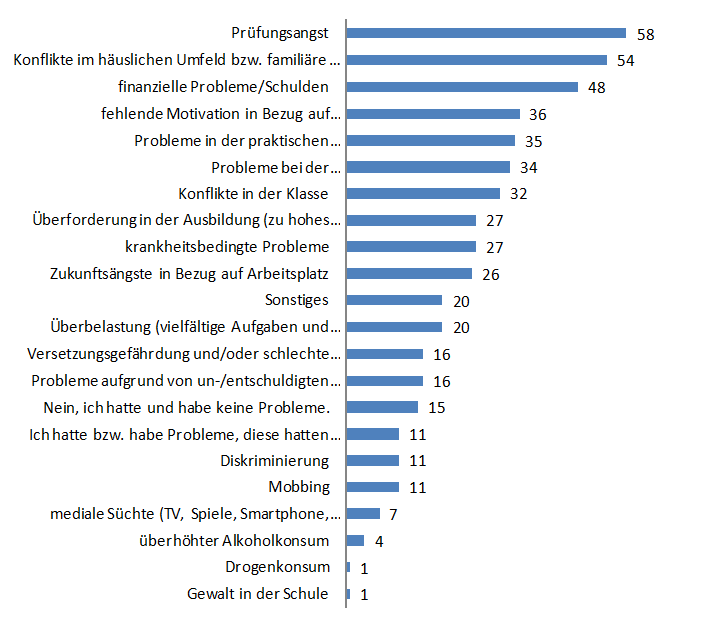
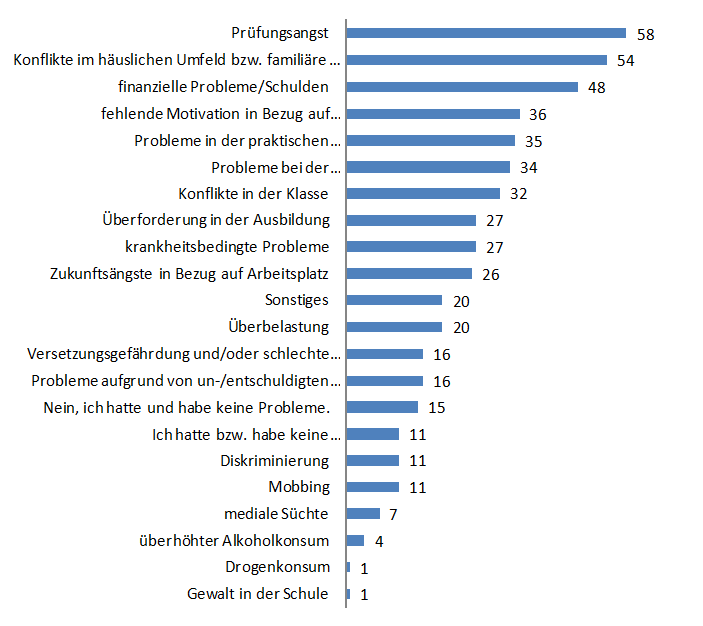
Bilder geändert. Fußlinie und Seitenzahlen nach Titelseite eingeblendet. Quellenangabe angepasst.

diff --git a/bilder.tex b/bilder.tex
@@ -1,6 +1,6 @@
 
 \begin{center}
-	\textbf{Schüler haben's schwer \punkte\footcite{prepolino2010}}\\
+	\textbf{Schüler haben's schwer \punkte}\\
 \end{center}
 
 
@@ -9,12 +9,13 @@
 		\includegraphics[width=0.4\textwidth]{images/Lasten-eines-Schuelers.jpg}\\
 	\caption{Lasten eines Schülers}
 	\label{fig:Lasten-eines-Schuelers}
+	\footnotesize(Quelle: Prepolino 2010)
 \end{figure}
 
-\vspace*{\fill}
+\vspace*{20mm}
 
 \begin{center}
-	\textbf{\punkte\ Lehrer aber auch\footcite{prepolino2010}}\\
+	\textbf{\punkte\ Lehrer aber auch}\\
 \end{center}
 
 
@@ -23,6 +24,7 @@
 		\includegraphics[width=0.4\textwidth]{images/Lasten-eines-Lehrers.jpg}\\
 	\caption{Lasten eines Lehrers}
 	\label{fig:Lasten-eines-Lehrers}
+	\footnotesize(Quelle: Prepolino 2010)
 \end{figure}
 
 

diff --git a/ma.tex b/ma.tex
@@ -28,6 +28,9 @@
 %%% Titelseite
 \include{title}
 
+\KOMAoption{footsepline}{true} 
+\ofoot{\pagemark}
+
 \include{Autorinnen}
 
 \include{danksagung}
@@ -45,10 +48,10 @@
 \include{Abkuerzungsverzeichnis}
 
 \KOMAoption{headsepline}{true} 
-\KOMAoption{footsepline}{true} 
+%\KOMAoption{footsepline}{true} 
 
 %%% Seitenzahl ab hier immer rechts
-\ofoot{\pagemark}
+%\ofoot{\pagemark}
 \ohead{Masterarbeit}
 \ihead{\headmark}
 \pagestyle{scrheadings}
